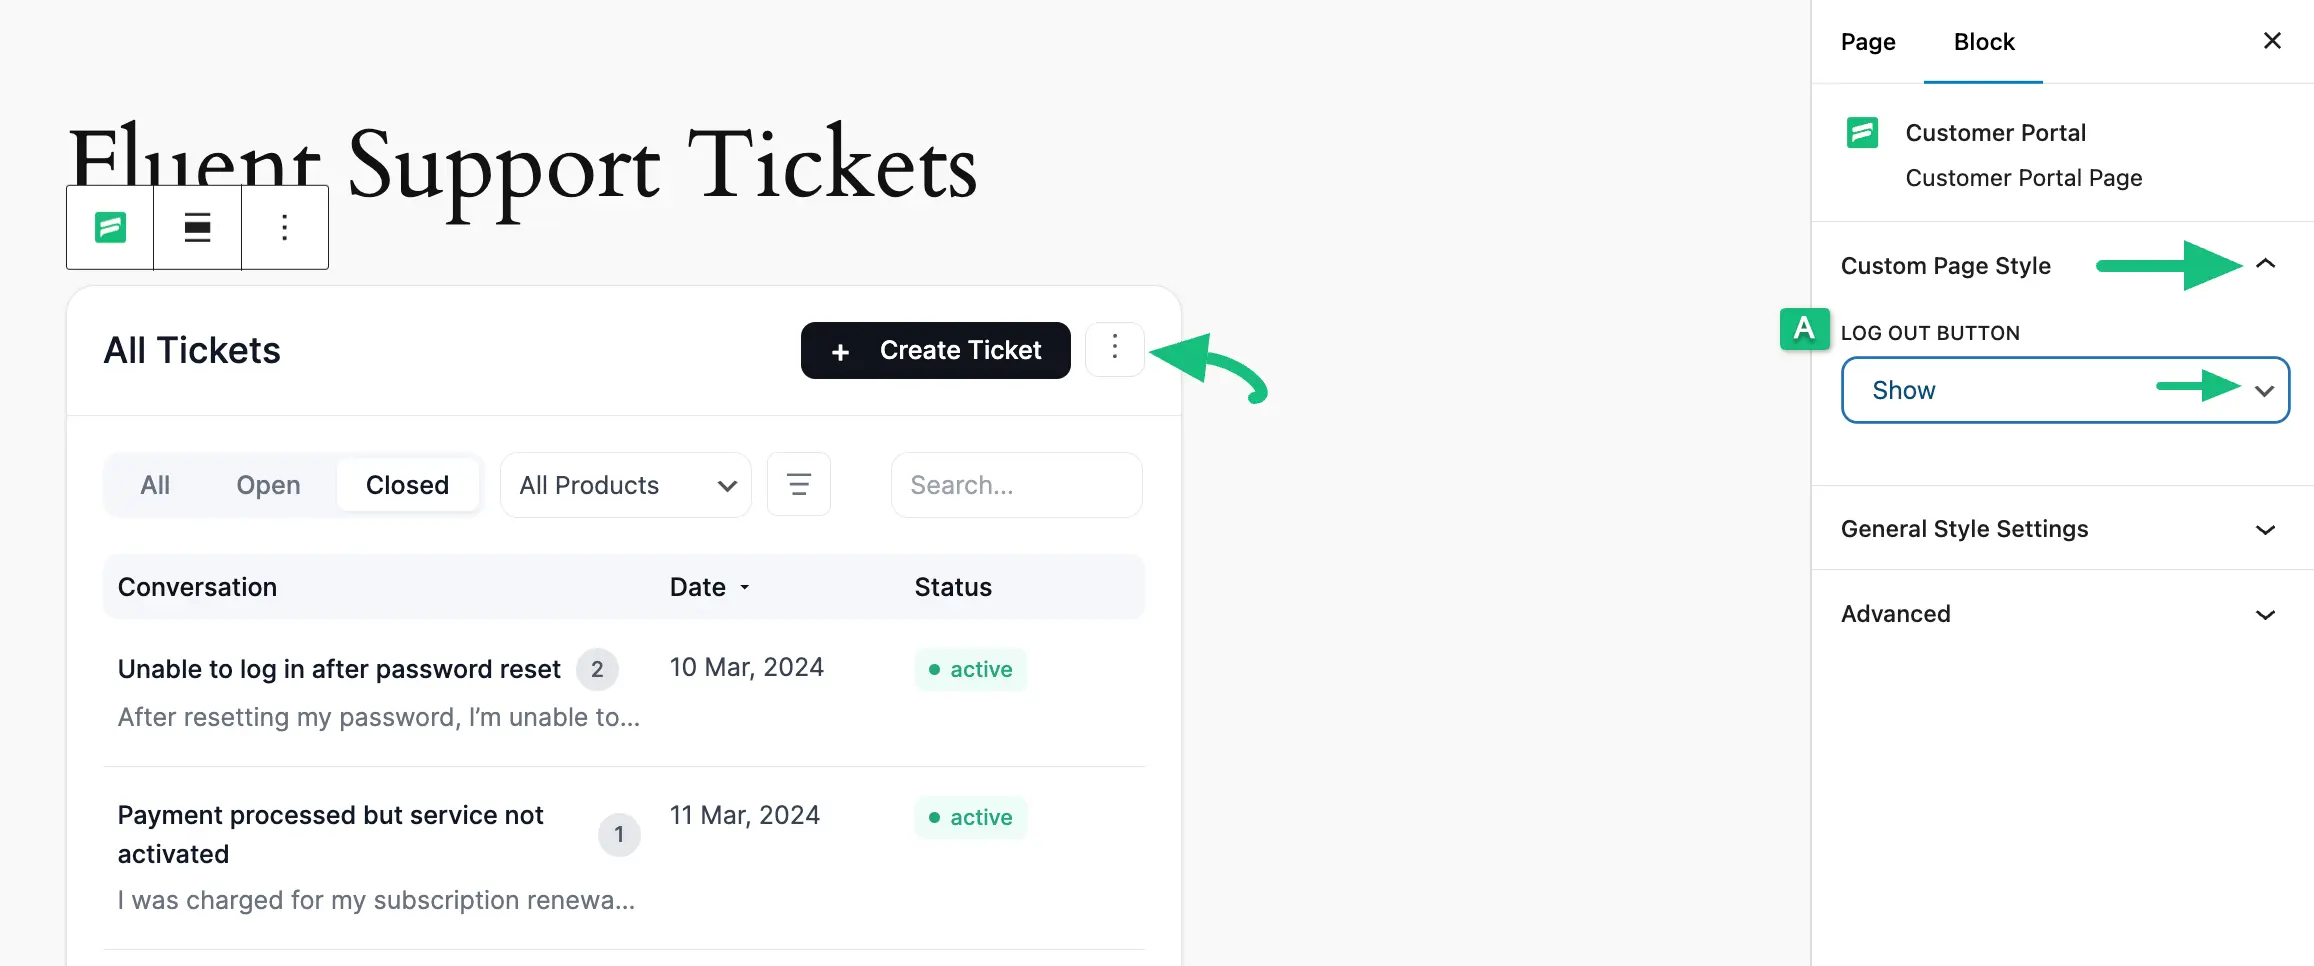
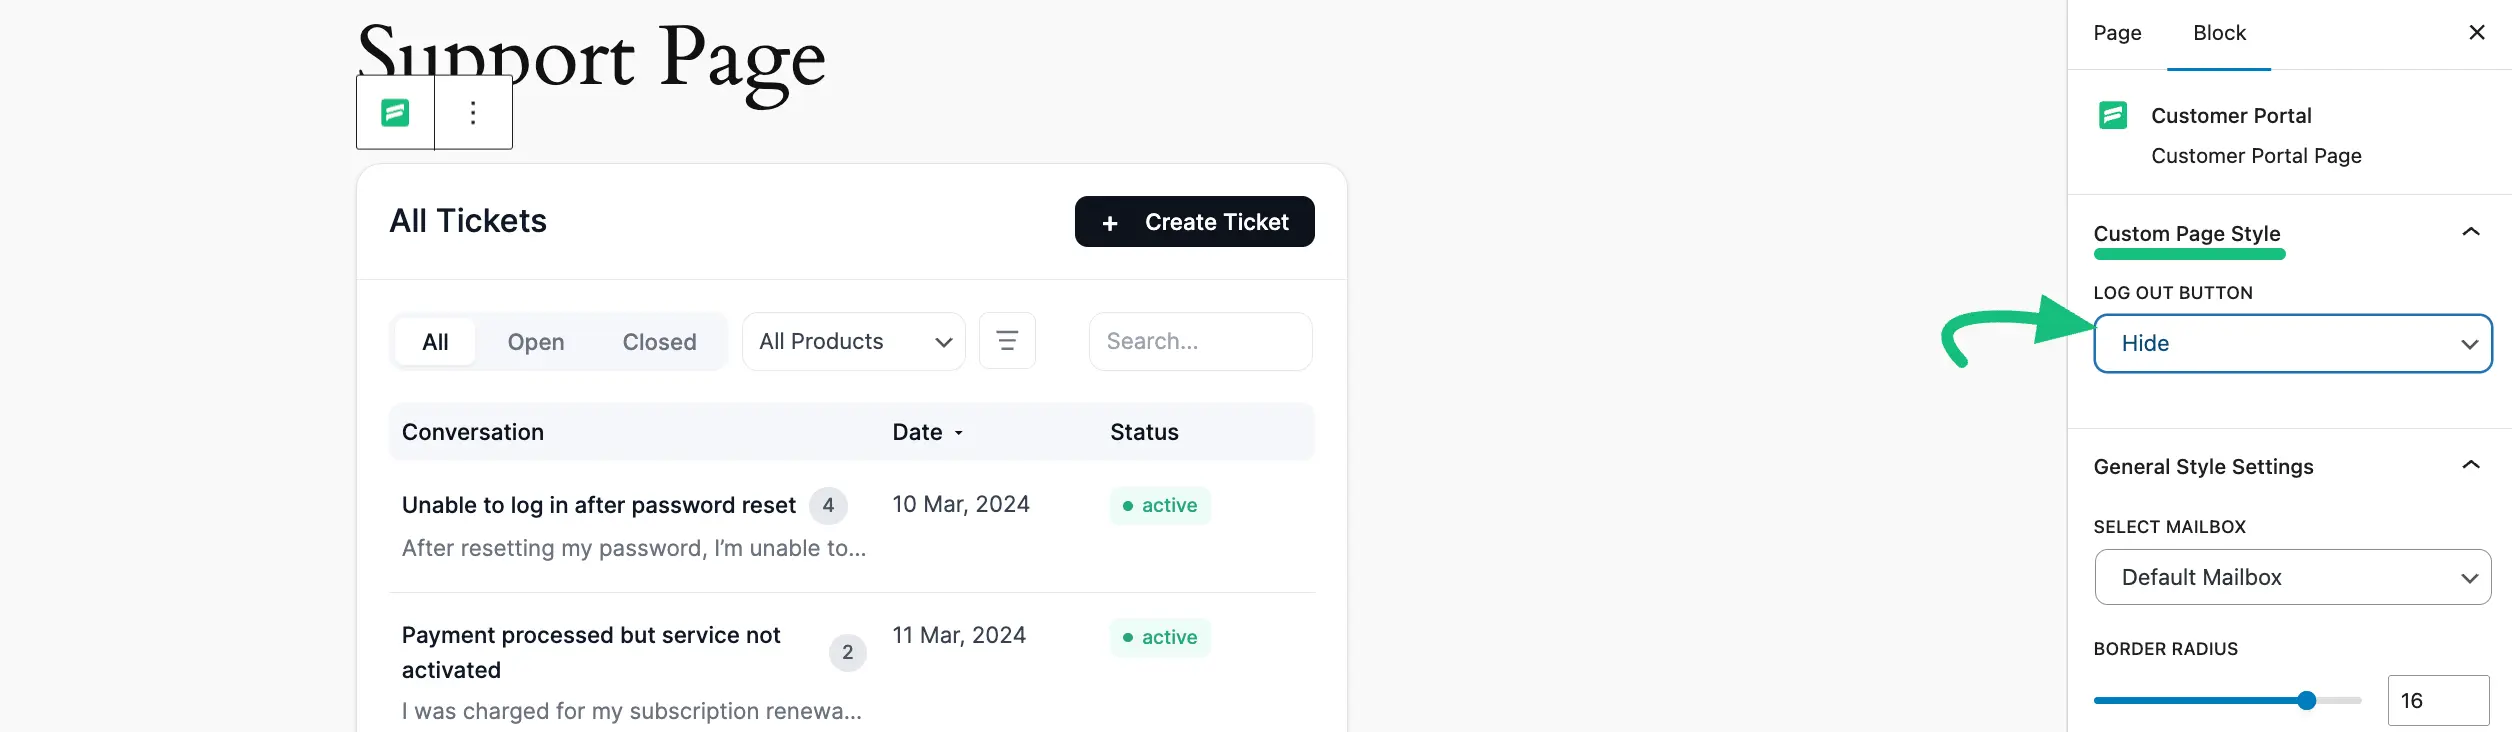
Adding a Custom Ticket Submission Form doc update
Adding a Custom Ticket Submission Form doc update

diff --git a/guide/setup-configuration/customer-portal/add-and-customize-customer-portal-using-gutenberg-block.md b/guide/setup-configuration/customer-portal/add-and-customize-customer-portal-using-gutenberg-block.md
@@ -4,50 +4,91 @@
 ---
 
 [**FluentSupport**](https://fluentsupport.com/) (**Customer Portal**) **Gutenberg Block** empowers you to create a customized customer portal. You can design the customer portal precisely according to your preferences. To know the whole process, follow the steps accordingly. 
-## **Add Customer Portal** #
-To learn how to add the **FluentSupport (Customer Portal)** on your **WordPress site** , follow the steps with screenshots below —
-Go to the **Pages** from the **WordPress** **Dashboard** , open the desired page where you want to add your **Customer** **Support** **Portal** 1 and click the **Edit** button.
+
+## **Add Customer Portal** 
+
+First, go to the **Pages** from the **WordPress** **Dashboard** , open the desired page where you want to add your **Customer** **Support** **Portal** 1 and click the **Edit** button.
+
 If you want to add your **Customer** **Support** **Portal** to a new page, click the **Add New Page** button in the top left corner and create a new page.
+
 ![WordPress dashboard - Pages](/guide/public/images/setup-configuration/customer-portal/add-and-customize-customer-portal-using-gutenberg-block/1.-selected-page-scaled.webp)
+
 Once you are on the Page Editor, add a **FluentSupport (Customer Portal)** **Gutenberg Block** to your desired page as shown in the GIF below.
-You can also add **FluentSupport (Customer Portal)** in **Posts** on your **WordPress** **Site** by following the process shown below.
+
+> [!NOTE]
+> You can also add **FluentSupport (Customer Portal)** in **Posts** on your **WordPress** **Site** by following the process shown below.
+
 ![](/guide/public/images/setup-configuration/customer-portal/add-and-customize-customer-portal-using-gutenberg-block/2.-add-customer-portal-using-gutenberg-block-gif.gif)
-## Customize Customer Portal #
-To learn how to customize the **FluentSupport (Customer Portal)** , follow the steps with the screenshots & GIFs below —
+
+## Customize Customer Portal 
+
 Once you’ve added the block, your **Customer Portal** will appear and you can personalize its design according to your needs.
+
 First, click any place of the portal randomly and it will take you to the **Block** page in the right sidebar where all the available customization settings will appear. These are:
 1. Custom Page Style
 2. General Style Settings
 3. Advanced
+
 ![](/guide/public/images/setup-configuration/customer-portal/add-and-customize-customer-portal-using-gutenberg-block/3.-all-three-customization-option-scaled-1.webp)
+
 **All three major customization settings mentioned above are briefly explained below:**
-### 1\. Custom Page Style #
+
+### 1. Custom Page Style 
+
 Once you click the **Arrow Icon** right next to the **Custom Page Style** , you will get the following settings option.
-1. **Log Out Button** : Here, you can see a **Three-Dot Icon** (which includes the **Log Out** option) next to the **\+ Create Ticket** button in the **Customer Portal**. Using this setting, you can make the button **Visible** or **Hidden** anytime by selecting **Show** or **Hide** from the dropdown menu. 
+
+**Log Out Button** : Under the **Custom Page Style** section, you will find the **LOG OUT BUTTON** setting. This option allows you to control the visibility of the logout functionality within the Customer Portal.
+
+ * **Hide:** Selecting Hide from the dropdown menu completely removes the logout button from the portal interface, as shown in the preview below.
+ * **Show:** Select Show if you want the logout button to be visible to your customers.
+
 ![](/guide/public/images/setup-configuration/customer-portal/add-and-customize-customer-portal-using-gutenberg-block/4.-custom-page-style-1.webp)
-### 2\. General Style Settings #
+
+### 2. General Style Settings 
+
 Once you click the **Arrow Icon** right next to the **General Style Settings** , you will get the following settings option.
-**A. Select MailBox:** Here, you can specify the **Business Inbox** whose tickets you want to display in the customer portal. To learn more about Business Inbox, read this [Documentation](https://fluentsupport.com/docs/adding-multiple-business-inboxes/).
-**B. Border Radius** : Using this option you can customize the border radius of the customer portal through the slider or by entering a specific value in the input box.
-**C. Primary Button Style** : Now, you can customize the appearance of the **Primary Button** by changing its **Text** and **Background** color. You can also reset them anytime using the **Three-dot Icon** on the right side.
-**D. Secondary Button Style** : Also, you can customize the appearance of the**Secondary Button** by changing its **Text** and **Background** color. You can reset them anytime using the **Three-dot Icon** on the right side.
+
+ **A. Select MailBox:** Here, you can specify the **Business Inbox** whose tickets you want to display in the customer portal. To learn more about Business Inbox, read this [Documentation](/guide/setup-configuration/business-inboxes/adding-multiple-business-inboxes).
+
+ **B. Border Radius** : Using this option you can customize the border radius of the customer portal through the slider or by entering a specific value in the input box.
+
+ **C. Primary Button Style** : Now, you can customize the appearance of the **Primary Button** by changing its **Text** and **Background** color. You can also reset them anytime using the **Three-dot Icon** on the right side.
+
+ **D. Secondary Button Style** : Also, you can customize the appearance of the**Secondary Button** by changing its **Text** and **Background** color. You can reset them anytime using the **Three-dot Icon** on the right side.
+
 ![](/guide/public/images/setup-configuration/customer-portal/add-and-customize-customer-portal-using-gutenberg-block/5.-general-style-settings-1.webp)
-#### Customize the Ticket Portal #
-Once you click the **\+ Create Ticket** button in the **Customer Portal** , you will be redirected to the **Ticket Portal** to submit your query to the support agents. You can also **Customize the Ticket Portal** using the following settings options. 
-**a. Custom Page Style** : Using this option you can customize the input fields’ border radius of the ticket portal through the slider or by entering a specific value in the input box. 
-**b. Secondary Button Style** : Also, you can customize the appearance of the**Secondary Button** by changing its **Text** and **Background** color. You can reset them anytime using the **Three-dot Icon** on the right side. **For example** , I made the **Browse File** button orange colour.
+
+#### Customize the Ticket Portal 
+
+Once you click the **+ Create Ticket** button in the **Customer Portal** , you will be redirected to the **Ticket Portal** to submit your query to the support agents. You can also **Customize the Ticket Portal** using the following settings options. 
+
+ **a. Custom Page Style** : Using this option you can customize the input fields’ border radius of the ticket portal through the slider or by entering a specific value in the input box. 
+
+ **b. Secondary Button Style** : Also, you can customize the appearance of the**Secondary Button** by changing its **Text** and **Background** color. You can reset them anytime using the **Three-dot Icon** on the right side. **For example** , I made the **Browse File** button orange colour.
+
 ![](/guide/public/images/setup-configuration/customer-portal/add-and-customize-customer-portal-using-gutenberg-block/6.-secondary-button-and-input-fields-in-ticket-portal-1.webp)
-### 3\. Advanced #
+
+### 3. Advanced 
+
 Once you click the **Arrow Icon** right next to the **Advanced** , you will get the following setting option.
 **a. Additional CSS Class(es):** You can use this advanced field to make the design of this Customer Portal (Gutenberg block) more customized by providing additional**CSS Class(es)**. 
+
 ![](/guide/public/images/setup-configuration/customer-portal/add-and-customize-customer-portal-using-gutenberg-block/7.-advanced-settings-1.webp)
+
 Once you complete the customization process, click the **Save** button (**Publish** button for new pages) in the top right corner to save all your changes. To see the preview, click the button beside the **Save** button. 
+
 ![](/guide/public/images/setup-configuration/customer-portal/add-and-customize-customer-portal-using-gutenberg-block/8.-save-button-scaled-1.webp)
-## Preview of Customer Portal #
+
+## Preview of Customer Portal 
+
 Here, you can see the preview of FluentSupport’s **Customer Portal**. 
+
 ![](/guide/public/images/setup-configuration/customer-portal/add-and-customize-customer-portal-using-gutenberg-block/9.-preview-of-customer-support-portal.webp)
-## Preview of Ticket Portal #
+
+## Preview of Ticket Portal 
+
 Here, you can see the preview of **FluentSupport’s Ticket Portal**. 
+
 ![](/guide/public/images/setup-configuration/customer-portal/add-and-customize-customer-portal-using-gutenberg-block/10.-preview-of-ticket-portal-1.webp)
 
 ---

diff --git a/guide/setup-configuration/ticket-forms-fields/add-custom-ticket-submission-form.md b/guide/setup-configuration/ticket-forms-fields/add-custom-ticket-submission-form.md
@@ -4,9 +4,13 @@
 ---
 
 This article will guide you through the process required to **add a custom ticket form** in **[Fluent Support](https://fluentsupport.com/)** using third-party services like [**Fluent Forms**](https://fluentforms.com/), allowing you to tailor the form to your needs.
-## **Add a Custom Ticket Form using Fluent Form** s #
+
+## **Add a Custom Ticket Form using Fluent Form** 
+
 **Fluent Forms** will allow you to customize the form according to your requirements. With Fluent Forms, you can easily add a personalized ticket submission form to your Fluent Support Customer Portal, complete with a unique layout, fields, and design.
+
 To **learn** how to add a custom ticket form by **integrating Fluent Forms** , check this [**Documentation**](https://fluentsupport.com/docs/fluent-form-integration/).
+
 Here is an example of a **Ticket** **Form** created using the **Fluent** **Forms** plugin
 ![Preview of Fluent Form](/guide/public/images/setup-configuration/ticket-forms-fields/add-custom-ticket-submission-form/fluent-form-preview-1.webp)
 
